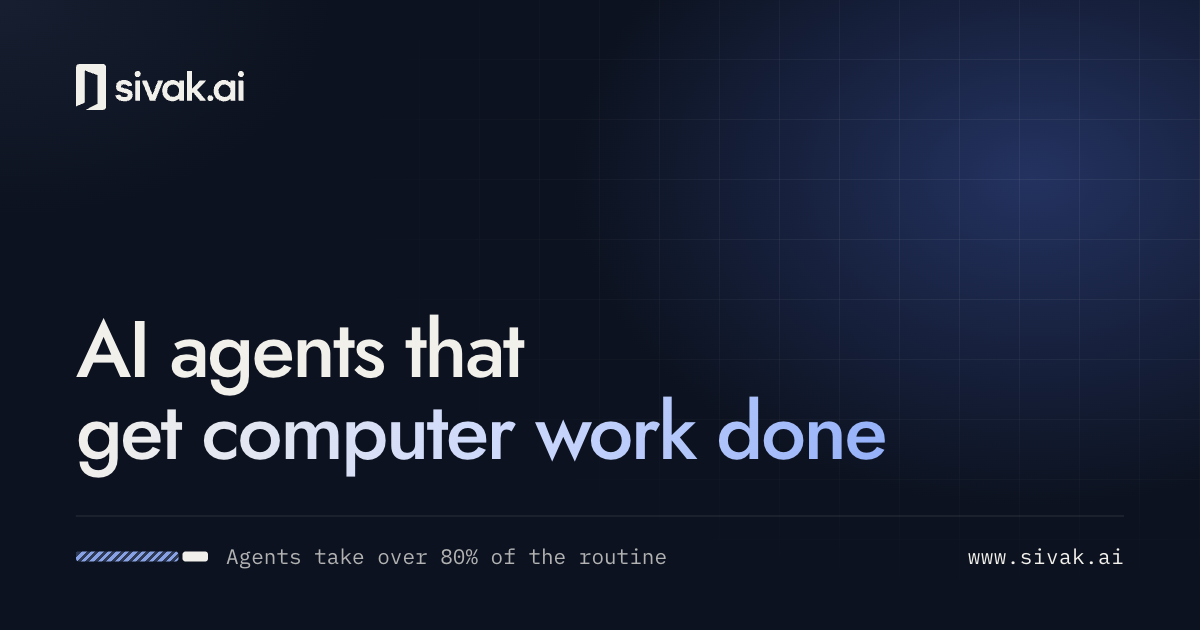
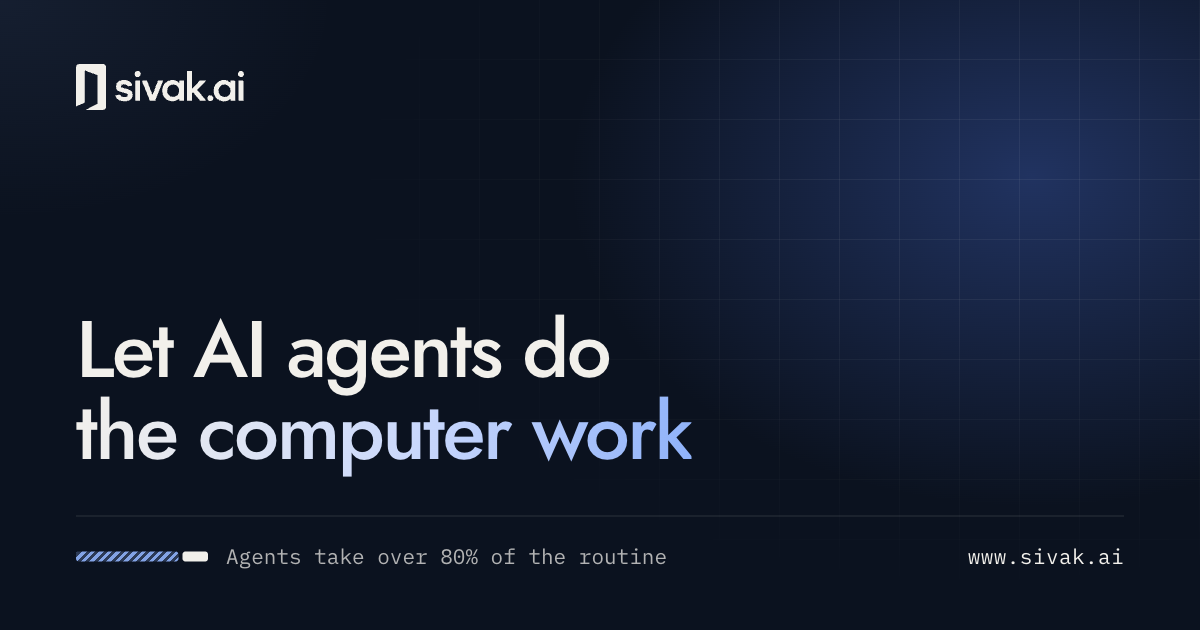
Lead with the time agents give back and show where they run
The hero now says what the 80:20 rule means for the reader: a block with a
large "80 %" reads "času pro to, na čem skutečně záleží" (of your time for
what really matters). It replaces the old one-line ratio.

The Czech headline always breaks after "počítače" and is a little smaller, so
it stays on two lines at every desktop width. The English headline is now "Let
AI agents do the computer work", which fits on two lines too and mirrors the
Czech wording; its share image shows the new text.

A new section, "Kde agenti běží" / "Where agents run", explains that we build
agents both in the cloud and on the client's own hardware with local models
that work without internet access. The hero notes and the FAQ say the same,
and the following sections are renumbered.

Changed region(s): [[0.0617, 0.6333, 0.74, 0.754], [0.0617, 0.4825, 0.5242, 0.6333]]

diff --git a/src/app/globals.css b/src/app/globals.css
@@ -228,7 +228,7 @@ code { font: inherit; }
   position: relative;
   overflow: clip;
   isolation: isolate;
-  padding-block: clamp(56px, 7vw, 96px) clamp(80px, 9vw, 128px);
+  padding-block: clamp(48px, 5.5vw, 80px) clamp(80px, 9vw, 128px);
   color: var(--on-dark);
   background: var(--navy-900);
 }
@@ -286,12 +286,14 @@ code { font: inherit; }
   box-shadow: 0 0 0 3px rgba(99, 214, 163, .18);
   animation: pulse 2.4s ease-in-out infinite;
 }
+/* The copy may break the heading with a newline; the size keeps the longer line inside the column */
 .hero-title {
   margin-top: 28px;
-  font-size: clamp(38px, 5.4vw, 74px);
+  font-size: clamp(36px, 5.2vw, 64px);
   font-weight: 500;
-  line-height: 1.02;
+  line-height: 1.04;
   letter-spacing: -.032em;
+  white-space: pre-line;
   text-wrap: balance;
 }
 /* each line of the accent gets its own ivory-to-blue sweep */
@@ -311,25 +313,53 @@ code { font: inherit; }
   color: var(--on-dark-2);
   text-wrap: pretty;
 }
-.hero-ratio {
-  display: flex;
+/* "80 % času pro to, na čem skutečně záleží": the figure, a hairline, then the two lines of copy */
+.hero-gain {
+  display: grid;
+  grid-template-columns: auto 1px minmax(0, 1fr);
+  grid-template-areas:
+    "figure line title"
+    "figure line text";
+  column-gap: 20px;
   align-items: center;
-  gap: 18px;
   max-width: 36em;
   margin-top: 28px;
-  padding: 14px 18px;
-  border: 1px solid var(--line-dark);
-  border-radius: 14px;
-  background: linear-gradient(90deg, rgba(141, 178, 255, .07), rgba(242, 240, 235, .015));
+  padding: 18px 22px 18px 20px;
+  border: 1px solid var(--line-dark-strong);
+  border-radius: 16px;
+  background: linear-gradient(90deg, rgba(141, 178, 255, .1), rgba(242, 240, 235, .015) 70%);
 }
-.hero-ratio p { font-size: 15.5px; line-height: 1.45; color: var(--on-dark); text-wrap: pretty; }
-.mini-split { display: flex; gap: 3px; width: 92px; }
-.mini-split i { height: 8px; border-radius: 2px; }
-.mini-split i:first-child {
-  flex: 80;
-  background: repeating-linear-gradient(-45deg, rgba(141, 178, 255, .85) 0 2px, rgba(141, 178, 255, .22) 2px 4.5px);
+.hero-gain::before { content: ""; grid-area: line; align-self: stretch; background: var(--line-dark-strong); }
+.gain-figure {
+  grid-area: figure;
+  font-size: clamp(40px, 3.6vw, 52px);
+  font-weight: 500;
+  line-height: 1;
+  letter-spacing: -.03em;
+  white-space: nowrap;
+  background: linear-gradient(95deg, #F2F0EB 0%, #C9D8FF 55%, #8DB2FF 100%);
+  -webkit-background-clip: text;
+  background-clip: text;
+  color: transparent;
 }
-.mini-split i:last-child { flex: 20; background: var(--ivory); }
+.gain-title {
+  grid-area: title;
+  align-self: end;
+  font-size: 17.5px;
+  font-weight: 500;
+  line-height: 1.35;
+  color: var(--on-dark);
+  text-wrap: balance;
+}
+.gain-text {
+  grid-area: text;
+  align-self: start;
+  margin-top: 4px;
+  font-size: 14.5px;
+  line-height: 1.5;
+  color: var(--on-dark-2);
+  text-wrap: pretty;
+}
 .hero-actions { display: flex; flex-wrap: wrap; gap: 12px; margin-top: 32px; }
 .hero-notes {
   display: flex;
@@ -814,9 +844,87 @@ code { font: inherit; }
 }
 .p-output span { font-size: 10.5px; letter-spacing: .12em; text-transform: uppercase; color: var(--ink-3); }
 
+/* ——— Deployment ——— */
+
+.deployment { overflow: clip; isolation: isolate; }
+.deploy-grid {
+  display: grid;
+  grid-template-columns: repeat(2, minmax(0, 1fr));
+  gap: 16px;
+  margin-top: clamp(48px, 6vw, 72px);
+}
+.deploy-card {
+  display: flex;
+  flex-direction: column;
+  padding: clamp(26px, 3vw, 36px);
+  border: 1px solid var(--line-dark-strong);
+  border-radius: 18px;
+  background: linear-gradient(180deg, rgba(242, 240, 235, .045), rgba(242, 240, 235, .01));
+}
+/* the local option is the one most firms ask about, so it carries the signal colour */
+.deploy-card.is-highlight {
+  border-color: rgba(141, 178, 255, .4);
+  background:
+    radial-gradient(80% 60% at 100% 0%, rgba(79, 125, 255, .18), rgba(79, 125, 255, 0) 70%),
+    linear-gradient(180deg, rgba(242, 240, 235, .05), rgba(242, 240, 235, .01));
+  box-shadow: 0 30px 60px -36px rgba(79, 125, 255, .5);
+}
+.deploy-top { display: flex; align-items: center; justify-content: space-between; gap: 12px; }
+.deploy-icon {
+  display: grid;
+  place-items: center;
+  width: 48px;
+  height: 48px;
+  border: 1px solid var(--line-dark-strong);
+  border-radius: 13px;
+  background: rgba(242, 240, 235, .04);
+  color: var(--on-dark);
+}
+.deploy-icon svg { width: 24px; height: 24px; }
+.is-highlight .deploy-icon { border-color: rgba(141, 178, 255, .35); color: var(--signal); }
+.deploy-badge {
+  display: inline-flex;
+  align-items: center;
+  gap: 7px;
+  padding: 6px 11px;
+  border: 1px solid rgba(99, 214, 163, .35);
+  border-radius: 999px;
+  background: rgba(99, 214, 163, .08);
+  font-family: var(--mono);
+  font-size: 11.5px;
+  font-weight: 500;
+  letter-spacing: .06em;
+  text-transform: uppercase;
+  white-space: nowrap;
+  color: var(--ok);
+}
+.deploy-badge svg { width: 15px; height: 15px; }
+.deploy-card h3 {
+  margin-top: 26px;
+  font-size: clamp(22px, 2vw, 27px);
+  font-weight: 500;
+  line-height: 1.2;
+  letter-spacing: -.015em;
+}
+.deploy-text { margin-top: 12px; color: var(--on-dark-2); text-wrap: pretty; }
+.deploy-specs { margin: 24px 0 0; border-top: 1px solid var(--line-dark); font-family: var(--mono); font-size: 13px; }
+.deploy-specs div {
+  display: grid;
+  grid-template-columns: 7.5em minmax(0, 1fr);
+  gap: 12px;
+  padding: 11px 0;
+  border-bottom: 1px dashed rgba(242, 240, 235, .1);
+}
+.deploy-specs dt { color: var(--signal); }
+.deploy-specs dd { margin: 0; color: var(--on-dark); }
+.is-highlight .deploy-specs div:last-child dd { color: var(--ok); }
+.deploy-fit { margin-top: auto; padding-top: 22px; font-size: 15px; color: var(--on-dark-3); }
+
 /* ——— Control ——— */
 
-.control { overflow: clip; isolation: isolate; }
+/* Control follows the dark deployment section: overlap by a pixel and separate them with a hairline */
+.control { overflow: clip; isolation: isolate; margin-top: -1px; padding-top: 0; }
+.control > .container { padding-top: clamp(72px, 8vw, 112px); border-top: 1px solid var(--line-dark); }
 .control-glow {
   position: absolute;
   inset: 0;
@@ -1234,6 +1342,7 @@ code { font: inherit; }
   .ratio-figure { font-size: clamp(96px, 30vw, 180px); }
 
   .service-grid { grid-template-columns: minmax(0, 1fr); }
+  .deploy-grid { grid-template-columns: minmax(0, 1fr); }
 
   .p-steps { grid-template-columns: minmax(0, 1fr); gap: 0; }
   .p-steps::before {
@@ -1268,7 +1377,6 @@ code { font: inherit; }
 @media (max-width: 720px) {
   body { font-size: 16px; }
 
-  .hero-ratio { flex-direction: column; align-items: flex-start; gap: 12px; }
 
   .split-bars { height: 52px; }
   .split-bars span { padding: 0 12px; font-size: 12px; }
@@ -1291,6 +1399,16 @@ code { font: inherit; }
 }
 
 @media (max-width: 560px) {
+  .hero-gain {
+    grid-template-areas:
+      "figure line title"
+      "text text text";
+    column-gap: 16px;
+    row-gap: 12px;
+    padding: 16px 18px;
+  }
+  .gain-title { align-self: center; }
+  .gain-text { margin-top: 0; }
   .hero-actions .btn { flex: 1 1 auto; }
 
   .console-dots { display: none; }

diff --git a/src/components/sections/Deployment.tsx b/src/components/sections/Deployment.tsx
@@ -1,0 +1,52 @@
+import type { Dictionary } from "@/dictionaries";
+import Eyebrow from "@/components/Eyebrow";
+import Icon, { type IconName } from "@/components/Icon";
+
+const ICONS: IconName[] = ["cloud", "server"];
+
+// Where agents run: cloud models, or local models on the client's own hardware that work offline
+export default function Deployment({ t }: { t: Dictionary["deployment"] }) {
+  return (
+    <section className="section dark deployment" id={t.id} aria-labelledby={`${t.id}-title`}>
+      <div className="grid-bg" aria-hidden="true" />
+      <div className="container">
+        <div className="section-head reveal">
+          <Eyebrow index="05">{t.eyebrow}</Eyebrow>
+          <h2 className="section-title" id={`${t.id}-title`}>
+            {t.title}
+          </h2>
+          <p className="section-lead">{t.lead}</p>
+        </div>
+
+        <ul className="deploy-grid reveal">
+          {t.options.map((option, i) => (
+            <li className={`deploy-card${option.highlight ? " is-highlight" : ""}`} key={option.title}>
+              <div className="deploy-top">
+                <span className="deploy-icon">
+                  <Icon name={ICONS[i] ?? "server"} />
+                </span>
+                {option.badge && (
+                  <span className="deploy-badge">
+                    <Icon name="offline" />
+                    {option.badge}
+                  </span>
+                )}
+              </div>
+              <h3>{option.title}</h3>
+              <p className="deploy-text">{option.text}</p>
+              <dl className="deploy-specs">
+                {option.specs.map(([key, value]) => (
+                  <div key={key}>
+                    <dt>{key}</dt>
+                    <dd>{value}</dd>
+                  </div>
+                ))}
+              </dl>
+              <p className="deploy-fit">{option.fit}</p>
+            </li>
+          ))}
+        </ul>
+      </div>
+    </section>
+  );
+}

diff --git a/src/components/sections/Hero.tsx b/src/components/sections/Hero.tsx
@@ -18,13 +18,11 @@ export default function Hero({ t, ctaHref, processHref }: { t: Dictionary; ctaHr
           </h1>
           <p className="hero-lead">{h.lead}</p>
 
-          {/* 80:20 — the hatched part is the routine agents take over, the solid part stays with people */}
-          <div className="hero-ratio">
-            <span className="mini-split" aria-hidden="true">
-              <i />
-              <i />
-            </span>
-            <p>{h.ratio}</p>
+          {/* 80:20 — the routine agents take over becomes time for what matters */}
+          <div className="hero-gain">
+            <strong className="gain-figure">{h.gain.figure}</strong>
+            <p className="gain-title">{h.gain.title}</p>
+            <p className="gain-text">{h.gain.text}</p>
           </div>
 
           <div className="hero-actions">

diff --git a/src/app/[lang]/page.tsx b/src/app/[lang]/page.tsx
@@ -9,6 +9,7 @@ import Ratio from "@/components/sections/Ratio";
 import Services from "@/components/sections/Services";
 import UseCases from "@/components/sections/UseCases";
 import Process from "@/components/sections/Process";
+import Deployment from "@/components/sections/Deployment";
 import Control from "@/components/sections/Control";
 import CaseStudy from "@/components/sections/CaseStudy";
 import Faq from "@/components/sections/Faq";
@@ -46,6 +47,7 @@ export default async function Home({
         <Services t={t.services} />
         <UseCases t={t.useCases} contactHref={contactHref} />
         <Process t={t.process} />
+        <Deployment t={t.deployment} />
         <Control t={t.control} />
         <CaseStudy t={t.case} />
         <Faq t={t.faq} />

diff --git a/src/components/Icon.tsx b/src/components/Icon.tsx
@@ -23,6 +23,10 @@ const PATHS = {
   browser: "M4 4.5h16a1 1 0 0 1 1 1v13a1 1 0 0 1-1 1H4a1 1 0 0 1-1-1v-13a1 1 0 0 1 1-1zM3 9h18M6 6.8h.01M8.5 6.8h.01",
   code: "M8.5 8 4.5 12l4 4M15.5 8l4 4-4 4M13.5 5.5l-3 13",
   pen: "M4 20l1-4.5L15.5 5a2.1 2.1 0 0 1 3 3L8 18.5 4 20zM13.5 7l3 3",
+  cloud: "M7.5 18.5h9.5a4 4 0 0 0 .4-7.98 5.5 5.5 0 0 0-10.65 1.2A3.4 3.4 0 0 0 7.5 18.5z",
+  server:
+    "M5 4.5h14a1 1 0 0 1 1 1v4a1 1 0 0 1-1 1H5a1 1 0 0 1-1-1v-4a1 1 0 0 1 1-1zM5 13.5h14a1 1 0 0 1 1 1v4a1 1 0 0 1-1 1H5a1 1 0 0 1-1-1v-4a1 1 0 0 1 1-1zM7.5 7.5h.01M7.5 16.5h.01M11 7.5h5M11 16.5h5",
+  offline: "M2.5 8.5a14 14 0 0 1 19 0M5.5 12a9.5 9.5 0 0 1 13 0M8.5 15.5a5 5 0 0 1 7 0M12 19h.01M3.5 3.5l17 17",
 } as const;
 
 export type IconName = keyof typeof PATHS;

diff --git a/design/og/og-en.html b/design/og/og-en.html
@@ -33,7 +33,7 @@
   <div class="bg"></div><div class="grid"></div>
   <div class="wrap">
     <img class="logo" src="../../public/brand/logo-light.svg" alt="">
-    <h1>AI agents that<br><span>get computer work done</span></h1>
+    <h1>Let AI agents do<br><span>the computer work</span></h1>
     <div class="foot">
       <div class="ratio"><span class="bar"><i></i><i></i></span>Agents take over 80% of the routine</div>
       <div class="url">www.sivak.ai</div>

diff --git a/src/components/sections/Faq.tsx b/src/components/sections/Faq.tsx
@@ -7,7 +7,7 @@ export default function Faq({ t }: { t: Dictionary["faq"] }) {
     <section className="section light faq" id={t.id} aria-labelledby={`${t.id}-title`}>
       <div className="container faq-grid">
         <div className="section-head reveal">
-          <Eyebrow index="07">{t.eyebrow}</Eyebrow>
+          <Eyebrow index="08">{t.eyebrow}</Eyebrow>
           <h2 className="section-title" id={`${t.id}-title`}>
             {t.title}
           </h2>

diff --git a/src/components/sections/Control.tsx b/src/components/sections/Control.tsx
@@ -53,7 +53,7 @@ export default function Control({ t }: { t: Dictionary["control"] }) {
       <div className="control-glow" aria-hidden="true" />
       <div className="container">
         <div className="section-head reveal">
-          <Eyebrow index="05">{t.eyebrow}</Eyebrow>
+          <Eyebrow index="06">{t.eyebrow}</Eyebrow>
           <h2 className="section-title" id={`${t.id}-title`}>
             {t.title}
           </h2>

diff --git a/src/components/sections/CaseStudy.tsx b/src/components/sections/CaseStudy.tsx
@@ -10,7 +10,7 @@ export default function CaseStudy({ t }: { t: Dictionary["case"] }) {
       <div className="container">
         <div className="case-head reveal">
           <div className="section-head">
-            <Eyebrow index="06">{t.eyebrow}</Eyebrow>
+            <Eyebrow index="07">{t.eyebrow}</Eyebrow>
             <h2 className="section-title" id={`${t.id}-title`}>
               {t.title}
             </h2>

diff --git a/src/components/sections/Contact.tsx b/src/components/sections/Contact.tsx
@@ -14,7 +14,7 @@ export default function Contact({ t }: { t: Dictionary["contact"] }) {
 
       <div className="container contact-grid">
         <div className="contact-copy reveal">
-          <Eyebrow index="08">{t.eyebrow}</Eyebrow>
+          <Eyebrow index="09">{t.eyebrow}</Eyebrow>
           <h2 className="section-title contact-title" id={`${t.id}-title`}>
             {t.title}
           </h2>
